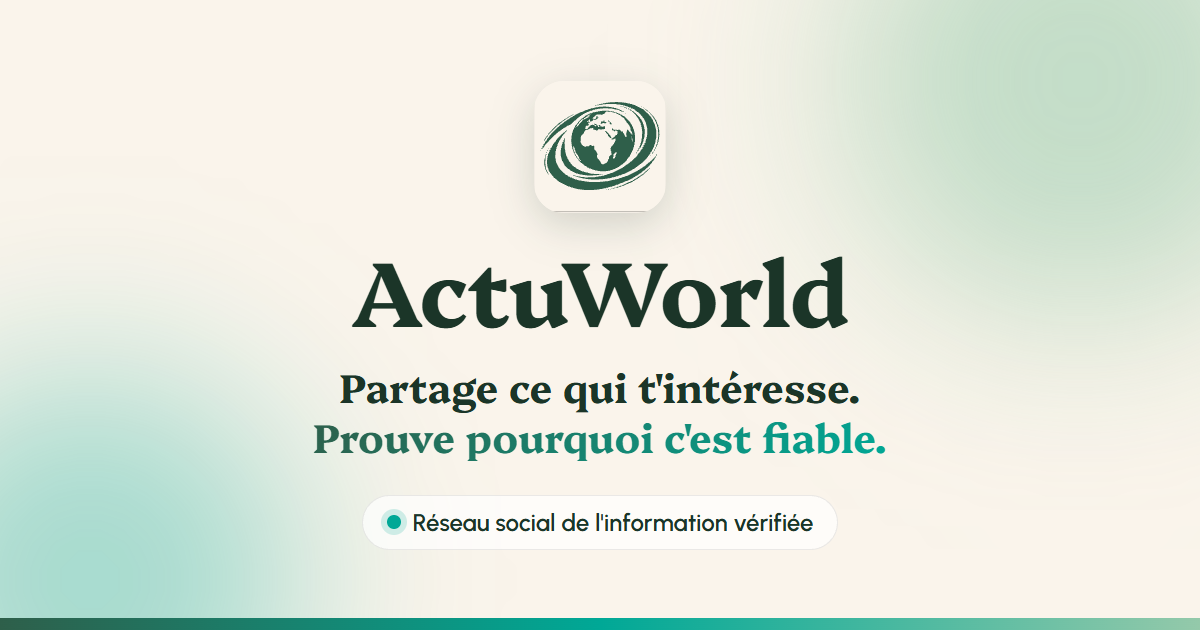
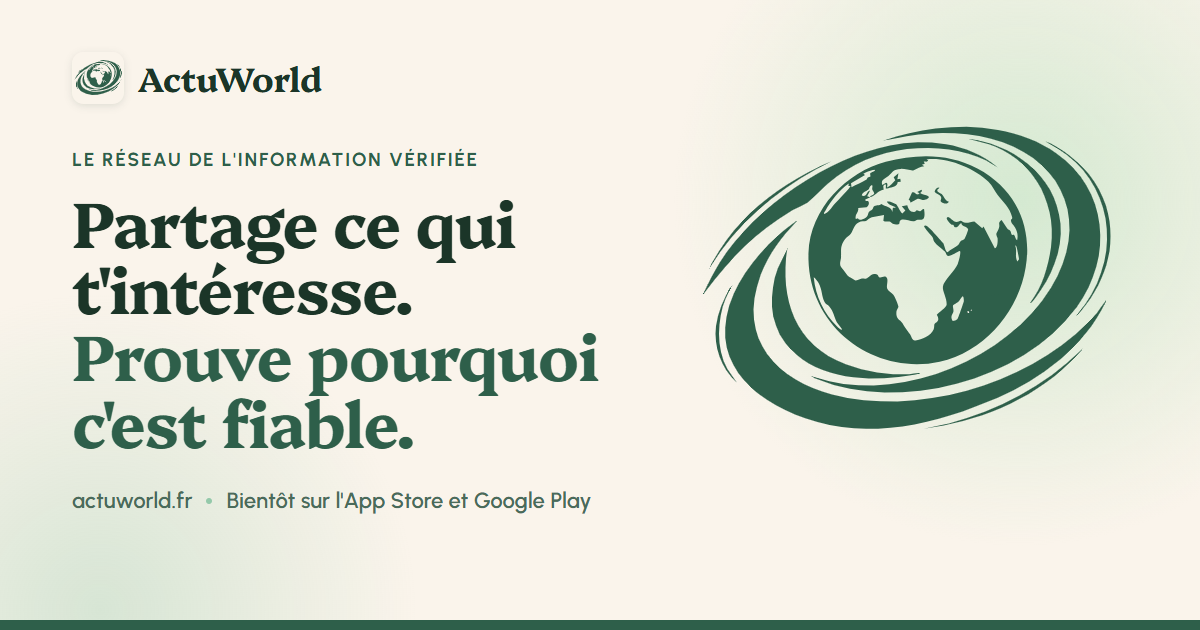
feat(og): nouvel apercu de partage a la charte (plus de « reseau social »), cache des reseaux force avec ?v=2

diff --git a/actuworld-site/index.html b/actuworld-site/index.html
@@ -16,7 +16,7 @@
   <meta property="og:url" content="https://www.actuworld.fr/" />
   <meta property="og:title" content="ActuWorld | Partage ce qui t'intéresse. Prouve pourquoi c'est fiable." />
   <meta property="og:description" content="Le réseau de l'information fiable : source visible, vérification ASV et jugement communautaire. Lecture gratuite." />
-  <meta property="og:image" content="https://www.actuworld.fr/og-image.png" />
+  <meta property="og:image" content="https://www.actuworld.fr/og-image.png?v=2" />
   <meta property="og:image:width" content="1200" />
   <meta property="og:image:height" content="630" />
 
@@ -24,7 +24,7 @@
   <meta name="twitter:card" content="summary_large_image" />
   <meta name="twitter:title" content="ActuWorld | Partage ce qui t'intéresse. Prouve pourquoi c'est fiable." />
   <meta name="twitter:description" content="Le réseau de l'information fiable : source visible, vérification ASV et jugement communautaire." />
-  <meta name="twitter:image" content="https://www.actuworld.fr/og-image.png" />
+  <meta name="twitter:image" content="https://www.actuworld.fr/og-image.png?v=2" />
   <!-- Polices Platypi (titres) et Urbanist (corps) -->
   <link rel="preconnect" href="https://fonts.googleapis.com" crossorigin>
   <link rel="preconnect" href="https://fonts.gstatic.com" crossorigin>

diff --git a/actuworld-site/src/components/PageMeta.tsx b/actuworld-site/src/components/PageMeta.tsx
@@ -9,7 +9,7 @@ interface PageMetaProps {
   noindex?: boolean;
 }
 
-export function PageMeta({ title, description, path, image = '/og-image.png', noindex = false }: PageMetaProps) {
+export function PageMeta({ title, description, path, image = '/og-image.png?v=2', noindex = false }: PageMetaProps) {
   useEffect(() => {
     // Update title
     document.title = `${title} | ActuWorld`;
